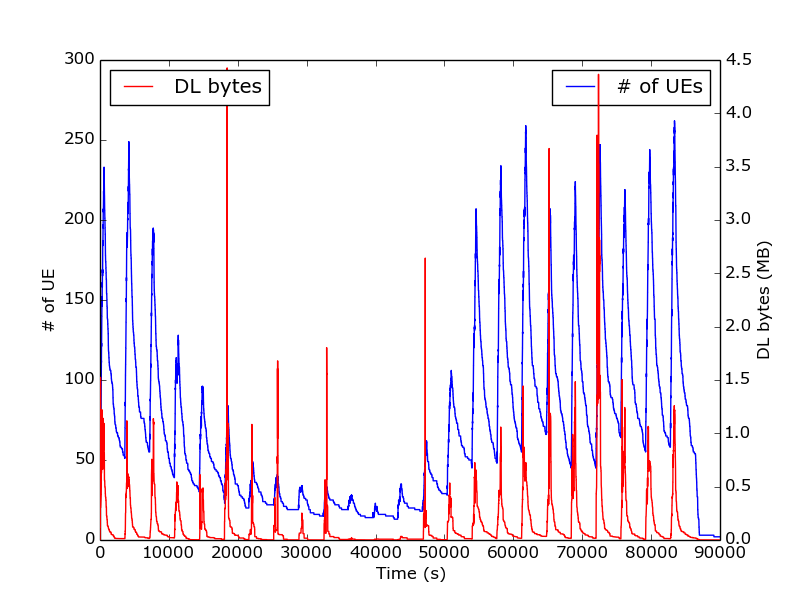
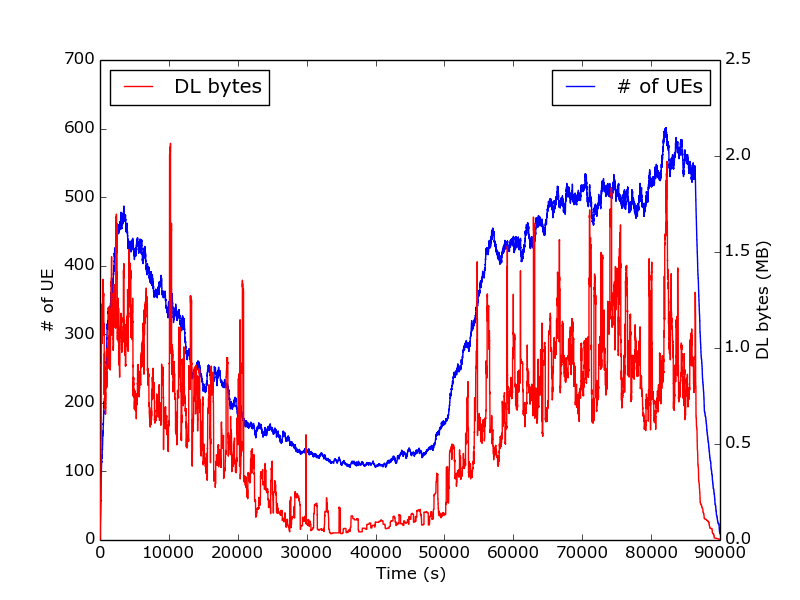
a

diff --git a/cdr_analysis/cdr_anomy.py b/cdr_analysis/cdr_anomy.py
@@ -3,15 +3,16 @@ matplotlib.use('Agg')
 import glob, os, sys, re, math, operator
 import matplotlib.pyplot as plt
 import numpy as np
+import copy
 
 def get_time(s):
 	s_ = s.split("@")[1]
 	s__ = s_.split(":")
 	return 3600*int(s__[0])+60*int(s__[1])+int(s__[2][:-1])
 
-ls_ = open("cvl00236_7a_1_NoIMSI_2016-02-15.txt").readlines()
+ls_ = open("cvl00236_7a_1_Anonymized_2016-02-15.txt").readlines()
 
-def plot_per_second():
+def plot_per_second(data):
 	start = 0
 	end = 3600*25
 
@@ -22,18 +23,15 @@ def plot_per_second():
 		r.append(0)
 
 	empty = 0
-	for l in ls[1:]:
-		s = get_time(l[0])
-		e = s + int(float(l[1]))
-		
-		if int(float(l[1])) == 0:
-			empty += 1
-			continue
-
-		r_ = round(int(l[9])*1.0/float(l[1]))
-		for i in range(s, min(e, end) + 1):
-			c[i] += 1
-			r[i] += r_/1000000.0
+	for l in data:
+		for x in data[l]:
+			s = x
+			e = s + data[l][x][0]
+			
+			r_ = round(data[l][x][1]*1.0/(e-s))
+			for i in range(s, min(e, end) + 1):
+				c[i] += 1
+				r[i] += r_/1000000.0
 			
 	fig = plt.figure()
 	ax1 = fig.add_subplot(111)    # The big subplot
@@ -52,11 +50,6 @@ def plot_per_second():
 	#ax.set_xlabel("Timestamp", fontsize=20)
 	fig.savefig("cdr.png")
 
-ls = []
-for l in ls_:
-	ls.append(l.split("|"))
-
-	
 def plot_cdf(data, s, r = -1):
 	num_bins = 10000
 	counts, bin_edges = np.histogram(data, bins=num_bins)
@@ -80,8 +73,46 @@ def plot_cdf(data, s, r = -1):
 	ax1.set_xlabel(s)
 	ax1.set_ylabel("CDF (1)")
 	fig.savefig("cdf_%s.png"%(s))
-	
-plot_per_second()
+
+ls = []
+for l in ls_:
+	ls.append(l.split("|"))
+
+data = {}
+empty = 0
+for l in ls[1:]:
+	s = get_time(l[0])
+	d = int(float(l[1]))
+	if d == 0:
+		empty += 1
+		continue
+		
+	i = l[9]
+	b = int(l[11])
+	if not i in data:
+		data[i] = {}
+	data[i][s] = [d, b]
+
+for i in data:
+	s_ = sorted(data[i].items(), key=operator.itemgetter(0))
+	n = 0
+	while n < len(s_) - 1:
+		if s_[n][0] + s_[n][1][0] == s_[n + 1][0]:
+			#print "b", s_[n], s_[n+1]
+			s_[n][1][0] += s_[n + 1][1][0]
+			s_[n][1][1] += s_[n + 1][1][1]
+			del s_[n + 1]
+			#print "a", s_[n]
+		else:
+			n += 1
+	data[i] = {}
+	for j in range(len(s_)):
+		data[i][s_[j][0]] = s_[j][1]
+
+plot_per_second(data)
+
+
+exit()
 
 d = []
 for l in ls[1:]:

diff --git a/ns-3.24.1/scratch/exp_base.cc b/ns-3.24.1/scratch/exp_base.cc
@@ -231,12 +231,12 @@ main (int argc, char *argv[])
 	lteHelper->SetEpcHelper (epcHelper);
 	Ptr<LteEnbRrc> rrc = CreateObject<LteEnbRrc> ();
 	if (ack == 1) {
-		rrc->SetAttribute ("EpsBearerToRlcMapping", EnumValue (LteEnbRrc::RLC_UM_ALWAYS));
+		rrc->SetAttribute ("EpsBearerToRlcMapping", EnumValue (LteEnbRrc::RLC_AM_ALWAYS));
 		Config::SetDefault ("ns3::LteEnbRrc::EpsBearerToRlcMapping",EnumValue(LteEnbRrc::RLC_AM_ALWAYS));
 	}
 
-	//lteHelper->SetEnbDeviceAttribute ("DlBandwidth", UintegerValue (25));
-	//lteHelper->SetEnbDeviceAttribute ("UlBandwidth", UintegerValue (100));
+lteHelper->SetEnbDeviceAttribute ("DlBandwidth", UintegerValue (25));
+lteHelper->SetEnbDeviceAttribute ("UlBandwidth", UintegerValue (100));
 	
 
 	// scheduler

diff --git a/ns-3.24.1/plot_pcaps.py b/ns-3.24.1/plot_pcaps.py
@@ -25,6 +25,8 @@ os.system("rm temp_plot -rf; mkdir temp_plot")
 leg = []
 max_x = -1
 for f in glob.glob("*.pcap"):
+	if int(get_id_from_pcap_name(f)) >= 20:
+		continue
 	os.system("captcp throughput -s 1 -i -f 1.1 -o temp_plot %s"%(f))
 	ls = open("temp_plot/throughput.data").readlines()
 	x, y = convert(ls)
